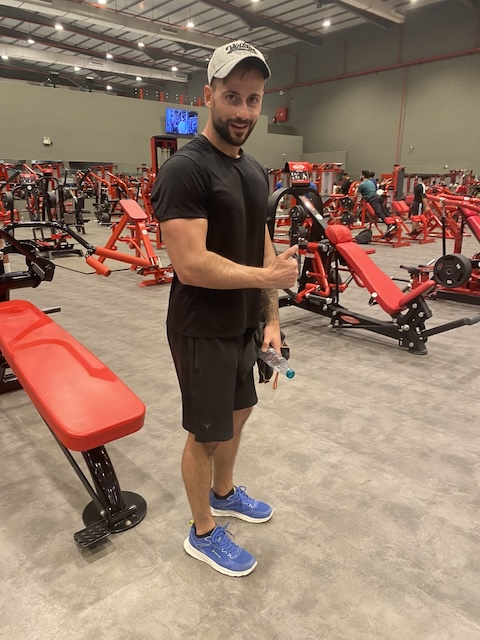
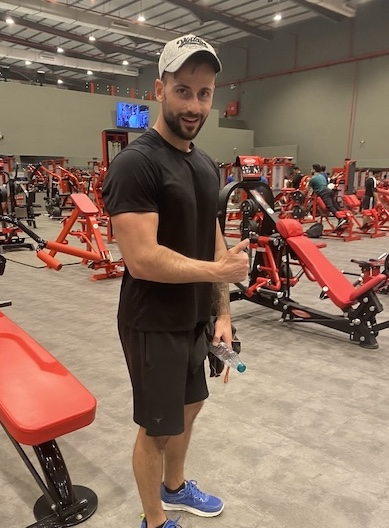
Aktualizace ebook-kondice/index.html 6

diff --git a/ebook-kondice/index.html b/ebook-kondice/index.html
@@ -14,7 +14,7 @@
     <div class="max-w-6xl mx-auto px-6 py-24 text-center">
 
       <div class="flex justify-center mb-8">
-        <img src="Cover.jpg" alt="E-book Kondice" width="596" height="842" class="w-[596px] h-[842px] max-w-full object-contain" />
+        <img src="Cover.jpg" alt="E-book Kondice" width="227" height="320" class="w-[227px] h-[320px] max-w-full object-contain" />
       </div>
 
       <h1 class="text-4xl md:text-5xl font-extrabold mb-6">Kondice, která tě posune dál</h1>
@@ -51,19 +51,19 @@
       <h3 class="text-xl font-semibold mb-4">Co se uvnitř dozvíte v kostce?</h3>
 
       <ul class="text-gray-700 space-y-3 mb-6 mx-auto max-w-3xl text-center">
-        <li class="flex items-start">
+        <li class="flex justify-center items-center">
           <span>Jak najít rychlost, kterou udržíte celý den, a jak dýchat, abyste do kopce nemuseli každých 10 metrů zastavovat.</span>
         </li>
-        <li class="flex items-start">
+        <li class="flex justify-center items-center">
           <span>Jak upravit krok, aby sestupy neodnesla vaše kolena.</span>
         </li>
-        <li class="flex items-start">
+        <li class="flex justify-center items-center">
           <span>Krátký domácí trénink (bez fitka a činek), který vám v terénu dodá obrovskou jistotu.</span>
         </li>
-        <li class="flex items-start">
+        <li class="flex justify-center items-center">
           <span>Co jíst před a po výletu, abyste nedošli o energii a druhý den se mohli hýbat.</span>
         </li>
-        <li class="flex items-start">
+        <li class="flex justify-center items-center">
           <span>Jak sladit tempo s partnerem a jak namotivovat děti, aby je chůze bavila.</span>
         </li>
       </ul>